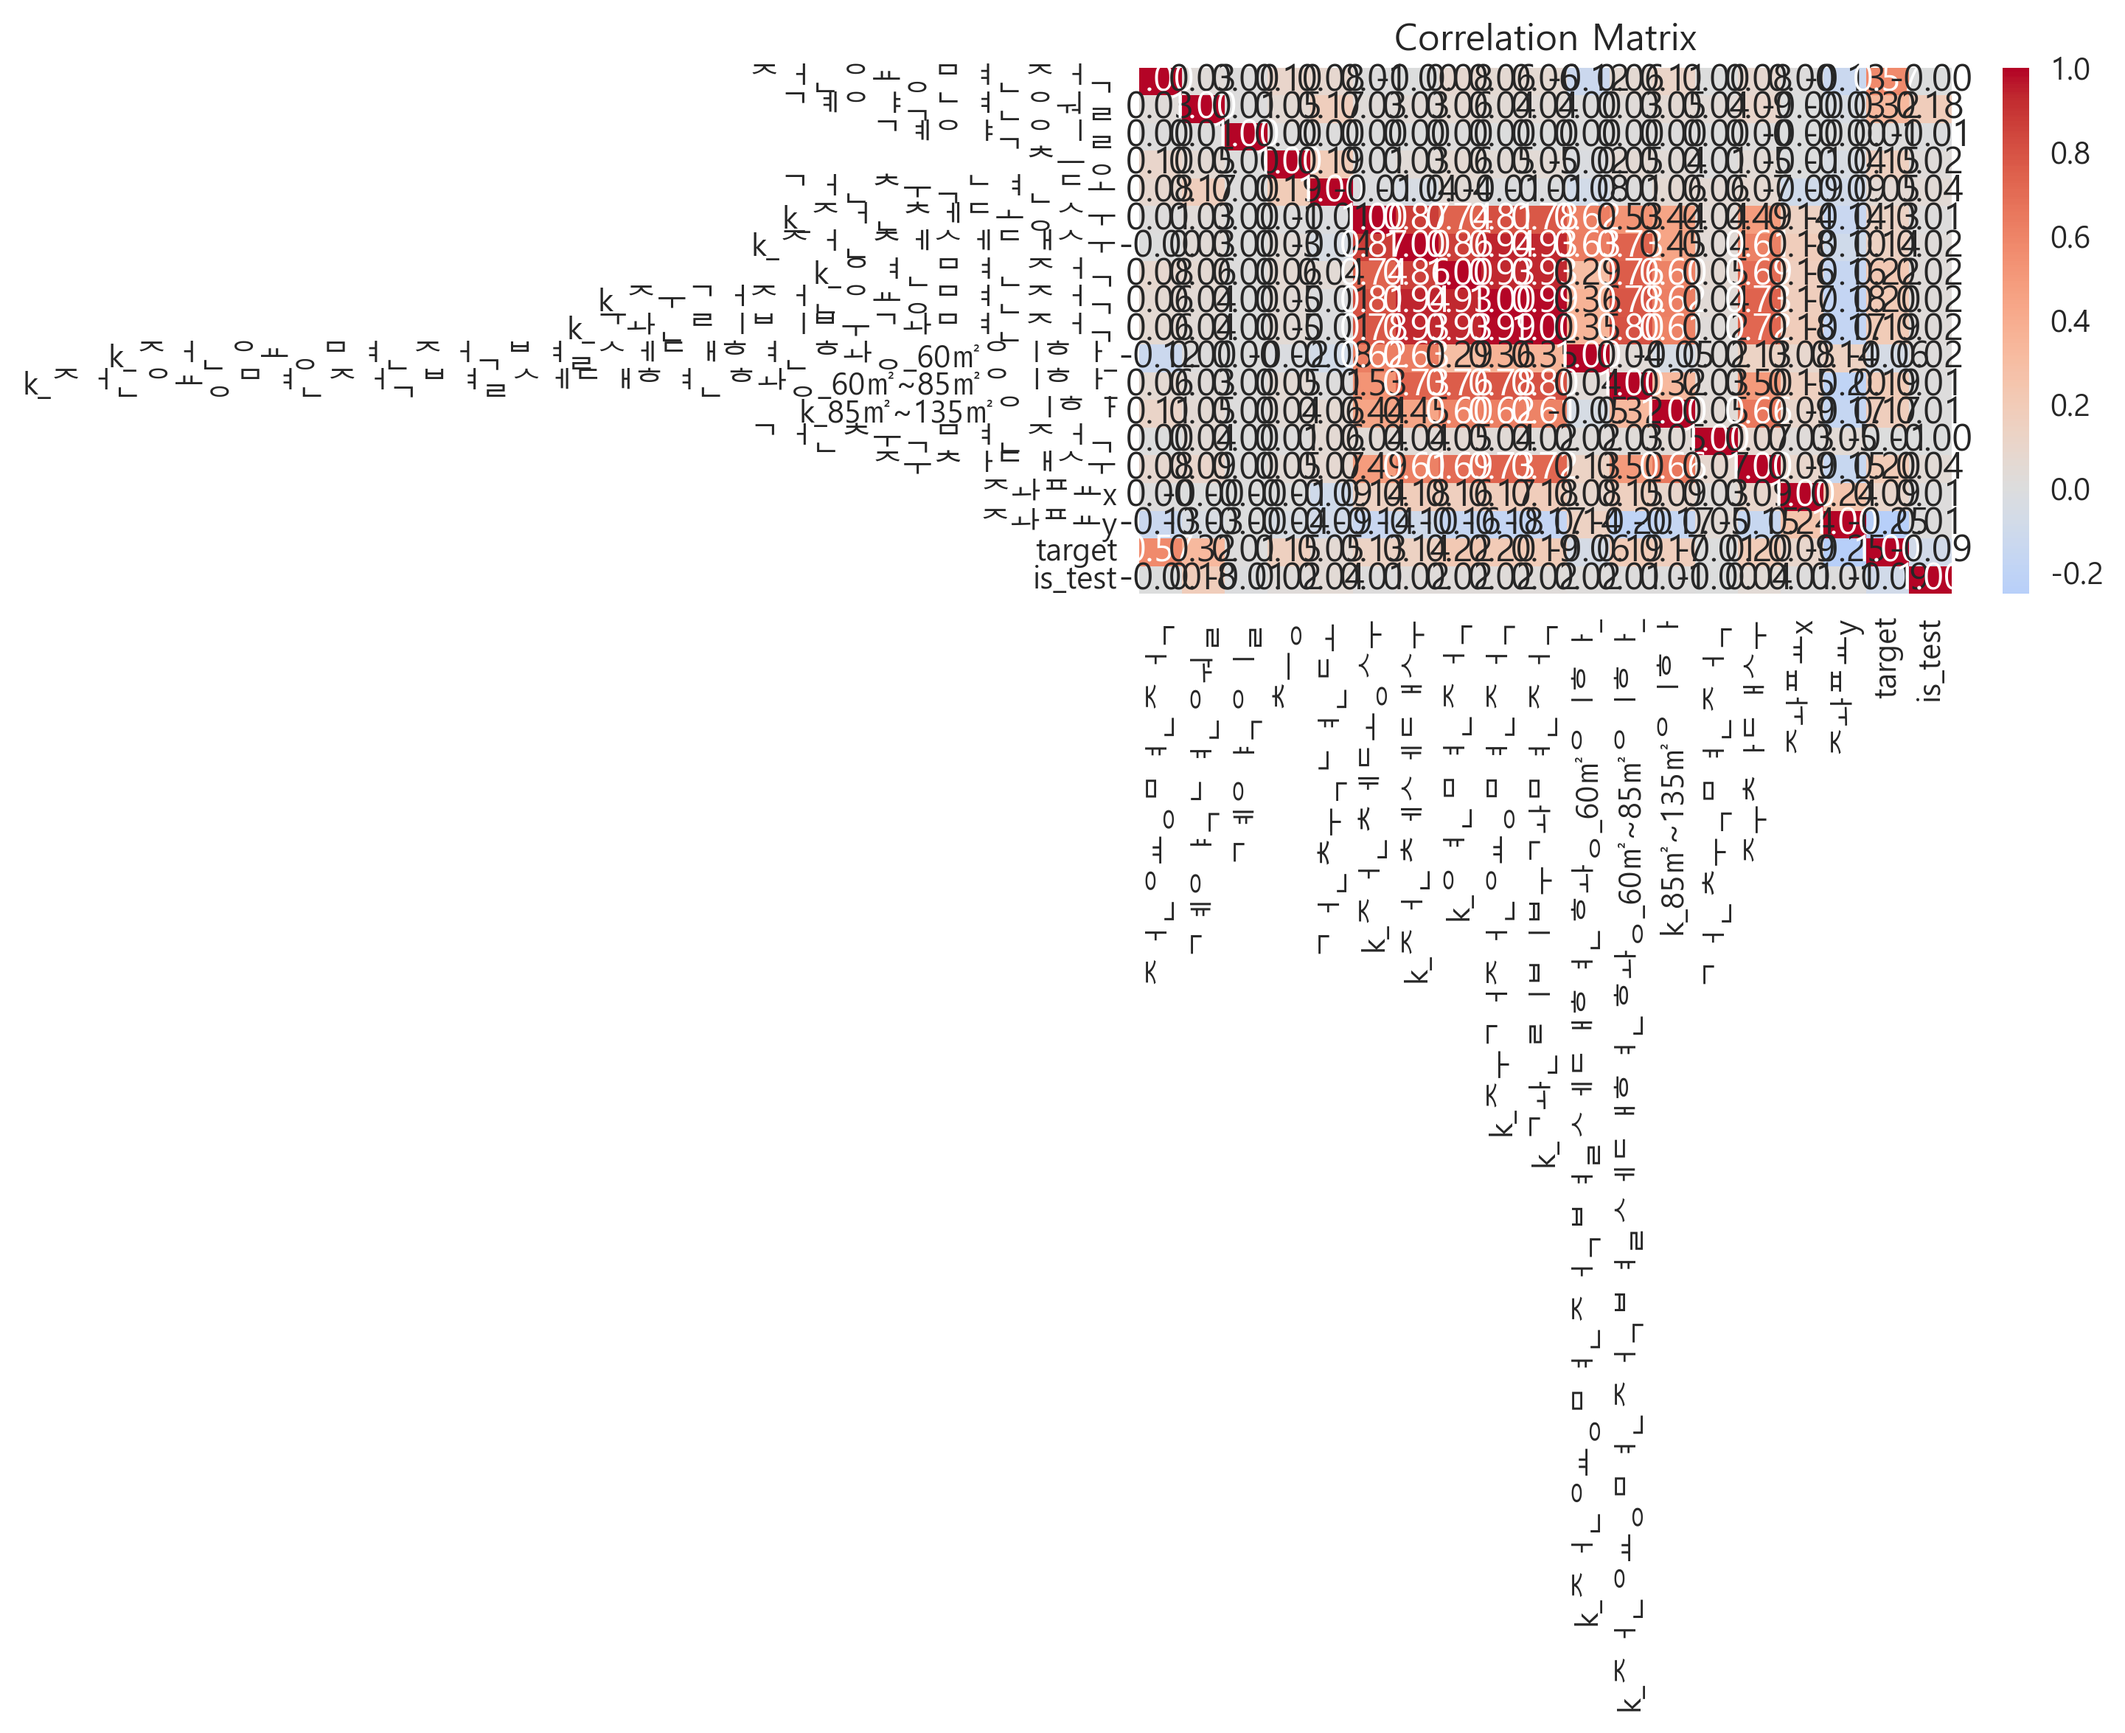
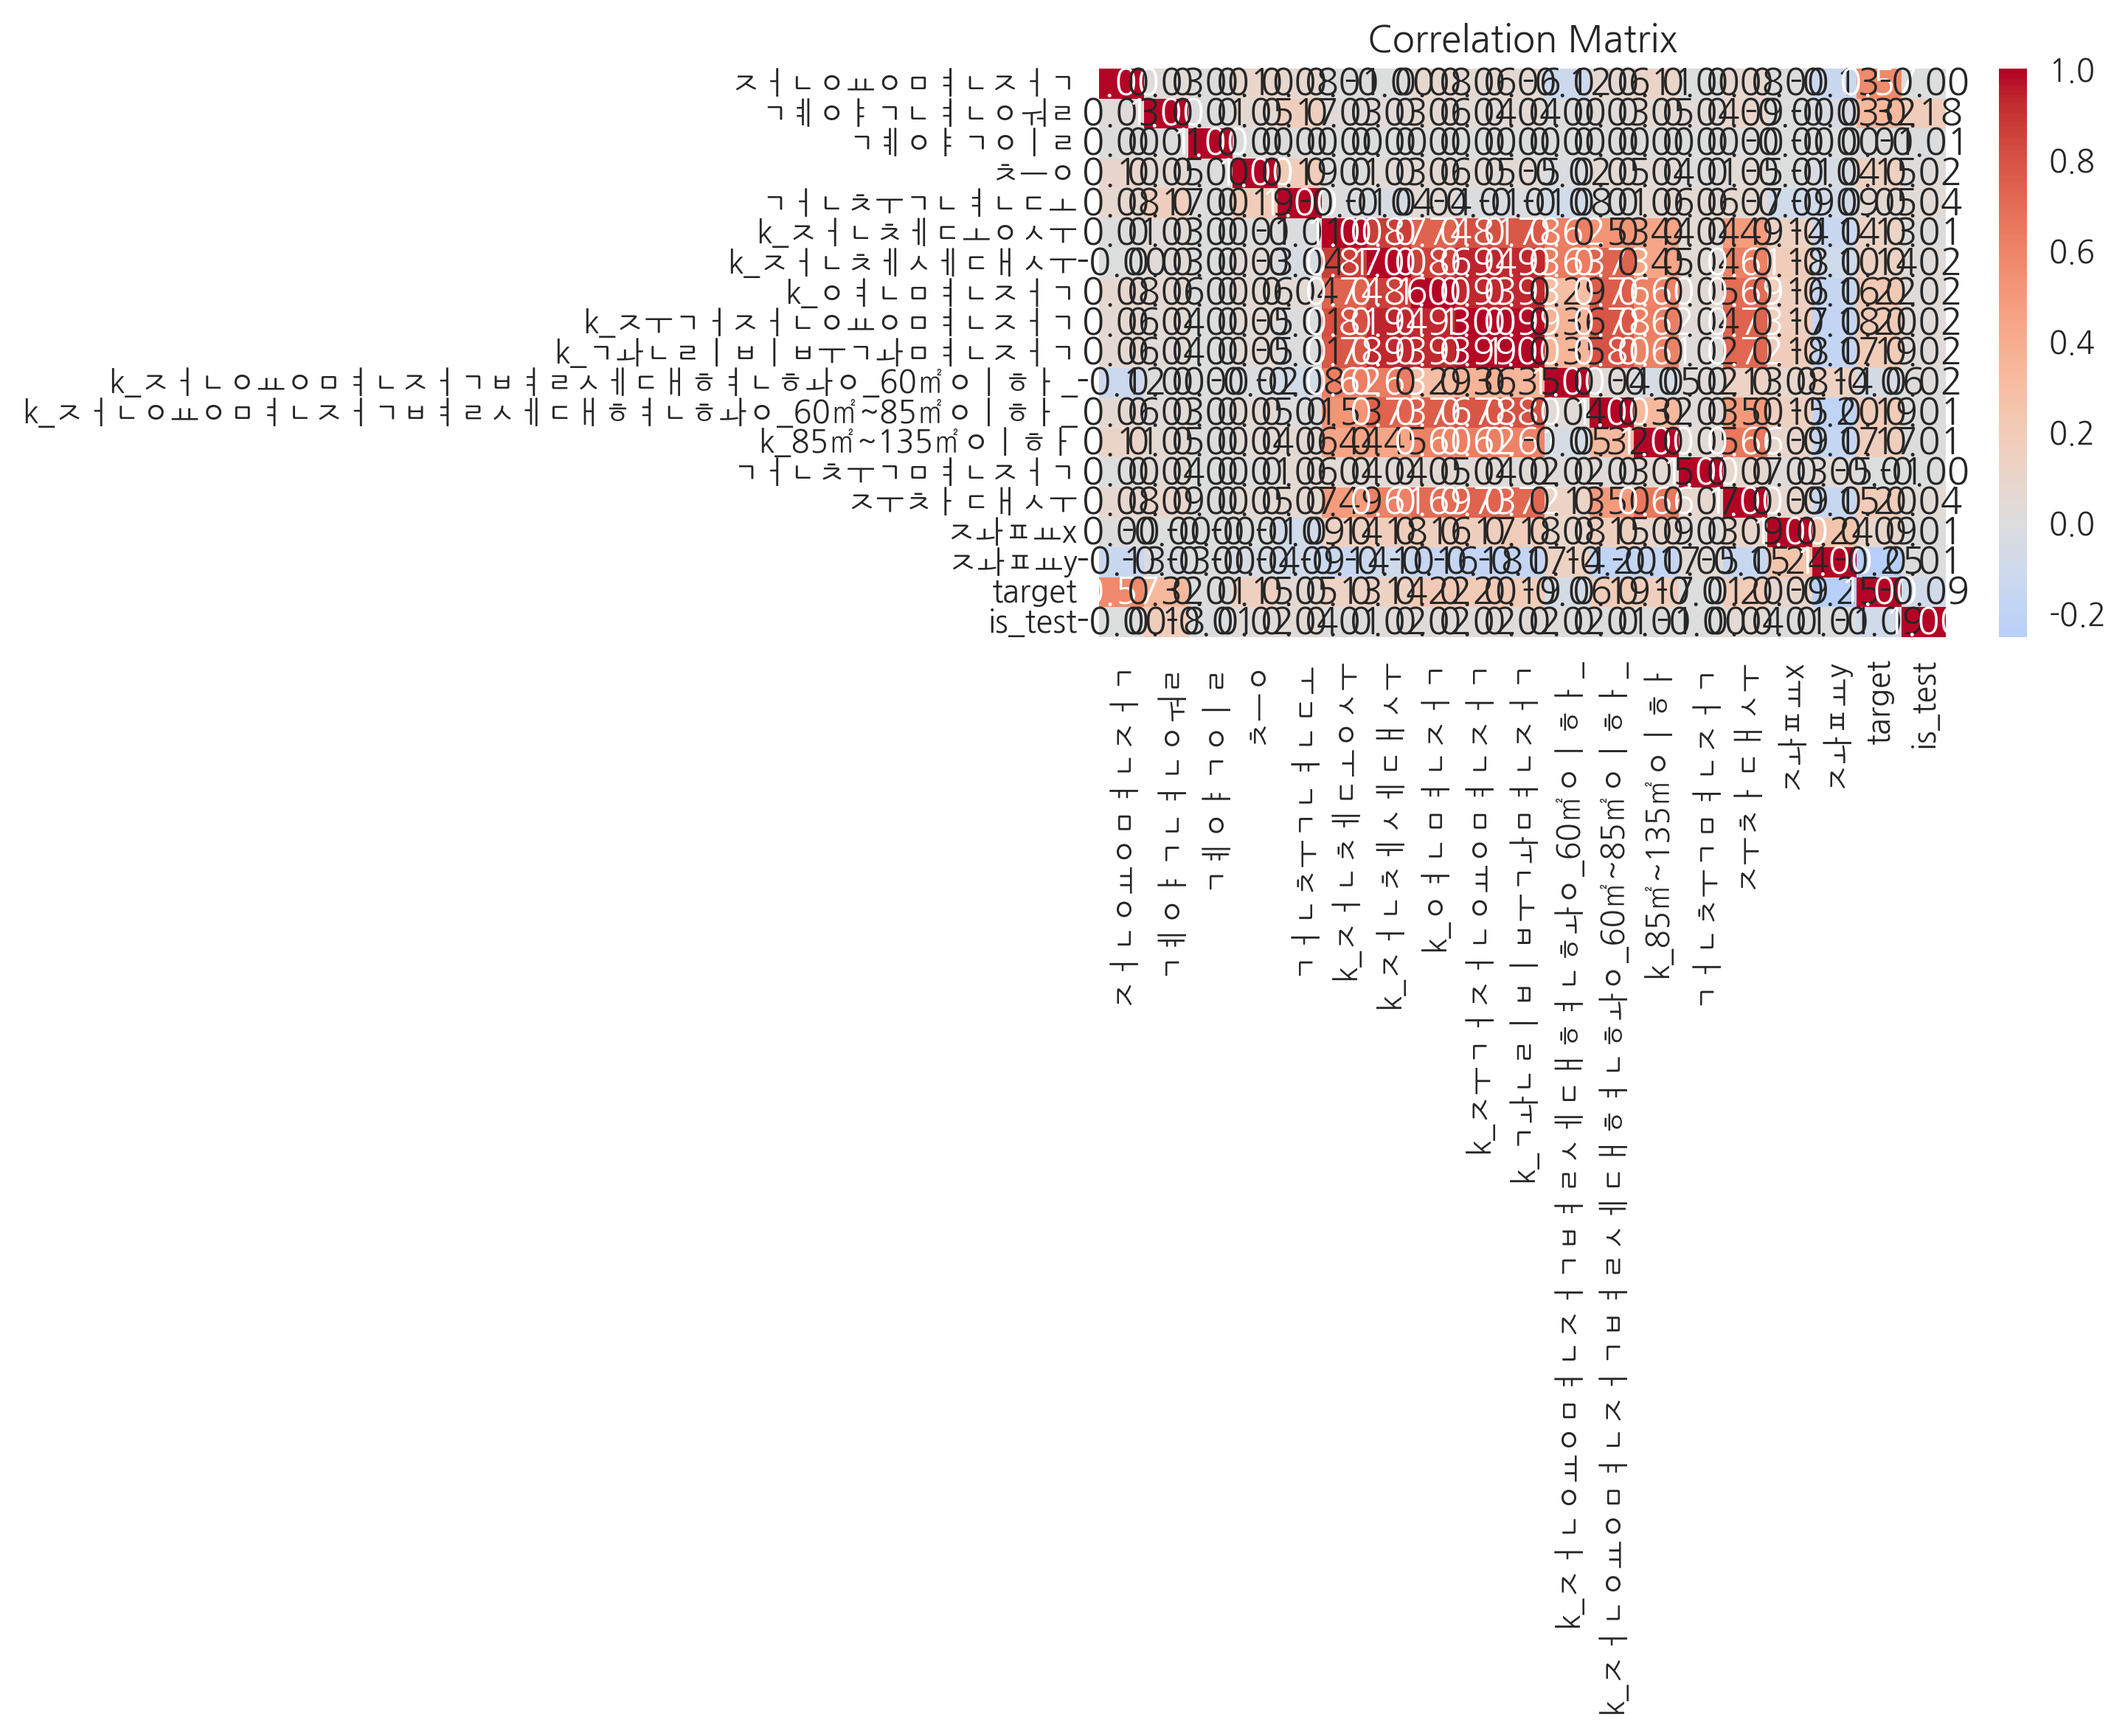
test: Main

Changed region(s): [[0.0312, 0.0, 0.9993, 0.7766], [0.7183, 0.8077, 0.7807, 0.9009], [0.7495, 0.9319, 0.7807, 0.994]]

diff --git a/main_test.py b/main_test.py
@@ -134,45 +134,53 @@ def main():
     label_encoders = feat_eng_data.get('label_encoders')
     continuous_columns_v2 = feat_eng_data.get('continuous_columns_v2')
     categorical_columns_v2 = feat_eng_data.get('categorical_columns_v2')
+    logger.info(f'For concat.Train data shape : {dt_train.shape}, Test data shape : {dt_test.shape}\n{dt_train.head(1)}\n{dt_test.head(1)}')
+    concat = pd.concat([dt_train, dt_test], axis=0).reset_index(drop=True)
+
+    dt_train['is_test'] = 0
+    dt_test['is_test'] = 1
+    logger.info('is_test column added to train and test data.\nConcat train and test data.')
+    concat = pd.concat([dt_train, dt_test])     # 하나의 데이터로 만들어줍니다.
+    concat['is_test'].value_counts()      # train과 test data가 하나로 합쳐진 것을 확인할 수 있습니다.
     ########################################################################################################################################
     ## Feature Add 1. 거리 분석
-    if not os.path.exists(path_feat_add):
-        logger.info('>>>>feat add 존재하지 않음. 생성 시작...')
-        feat_add = FeatureAdditional(config)
-        df_coor = {'x': '좌표X', 'y': '좌표Y'}
-        subway_coor = {'x': '위도', 'y': '경도'}
-        bus_coor = {'x': 'X좌표', 'y': 'Y좌표'}
-        subway_feature = pd.read_csv(config.get('subway_feature'))
-        bus_feature = pd.read_csv(config.get('bus_feature'))
+    # if not os.path.exists(path_feat_add):
+    #     logger.info('>>>>feat add 존재하지 않음. 생성 시작...')
+    #     feat_add = FeatureAdditional(config)
+    #     df_coor = {'x': '좌표X', 'y': '좌표Y'}
+    #     subway_coor = {'x': '위도', 'y': '경도'}
+    #     bus_coor = {'x': 'X좌표', 'y': 'Y좌표'}
+    #     subway_feature = pd.read_csv(config.get('subway_feature'))
+    #     bus_feature = pd.read_csv(config.get('bus_feature'))
 
-        logger.info(f'For concat.Train data shape : {dt_train.shape}, Test data shape : {dt_test.shape}\n{dt_train.head(1)}\n{dt_test.head(1)}')
-        concat = pd.concat([dt_train, dt_test], axis=0).reset_index(drop=True)
+    #     logger.info(f'For concat.Train data shape : {dt_train.shape}, Test data shape : {dt_test.shape}\n{dt_train.head(1)}\n{dt_test.head(1)}')
+    #     concat = pd.concat([dt_train, dt_test], axis=0).reset_index(drop=True)
 
-        dt_train['is_test'] = 0
-        dt_test['is_test'] = 1
-        logger.info('is_test column added to train and test data.\nConcat train and test data.')
-        concat = pd.concat([dt_train, dt_test])     # 하나의 데이터로 만들어줍니다.
-        concat['is_test'].value_counts()      # train과 test data가 하나로 합쳐진 것을 확인할 수 있습니다.
-            # 1. Numba + 병렬처리 조합 (메모리 효율적)
-        # df, cols = feat_add.distance_analysis_optimized(
-        #     df, subway_feature, df_coor, subway_coor, radius=500, target='subway'
-        # )
+    #     dt_train['is_test'] = 0
+    #     dt_test['is_test'] = 1
+    #     logger.info('is_test column added to train and test data.\nConcat train and test data.')
+    #     concat = pd.concat([dt_train, dt_test])     # 하나의 데이터로 만들어줍니다.
+    #     concat['is_test'].value_counts()      # train과 test data가 하나로 합쳐진 것을 확인할 수 있습니다.
+    #         # 1. Numba + 병렬처리 조합 (메모리 효율적)
+    #     # df, cols = feat_add.distance_analysis_optimized(
+    #     #     df, subway_feature, df_coor, subway_coor, radius=500, target='subway'
+    #     # )
 
-        # 2. BallTree 방식 (더 빠르지만 메모리 많이 사용)
-        concat, subway_cols = feat_add.distance_analysis_balltree(
-            concat, subway_feature, df_coor, subway_coor, radius=500, target='subway'
-        )
-        #concat, subway_cols = feat_add.distance_analysis_parallel(concat, subway_feature, df_coor, subway_coor, 500, 'subway')
-        concat, bus_cols = feat_add.distance_analysis_balltree(concat, bus_feature, df_coor, bus_coor, 500, 'bus')
-        logger.info(f'For concat.Train data shape : {dt_train.shape}, Test data shape : {dt_test.shape}\n{dt_train.head(1)}\n{dt_test.head(1)}')
-        #df.drop(df.columns[0], axis=1, inplace=True)
-        concat.to_csv(path_feat_add)
+    #     # 2. BallTree 방식 (더 빠르지만 메모리 많이 사용)
+    #     concat, subway_cols = feat_add.distance_analysis_balltree(
+    #         concat, subway_feature, df_coor, subway_coor, radius=500, target='subway'
+    #     )
+    #     #concat, subway_cols = feat_add.distance_analysis_parallel(concat, subway_feature, df_coor, subway_coor, 500, 'subway')
+    #     concat, bus_cols = feat_add.distance_analysis_balltree(concat, bus_feature, df_coor, bus_coor, 500, 'bus')
+    #     logger.info(f'For concat.Train data shape : {dt_train.shape}, Test data shape : {dt_test.shape}\n{dt_train.head(1)}\n{dt_test.head(1)}')
+    #     #df.drop(df.columns[0], axis=1, inplace=True)
+    #     concat.to_csv(path_feat_add)
 
-    else:
-        logger.info('>>>>feat add 존재. Loading...')
-        concat = pd.read_csv(path_feat_add)
+    # else:
+    #     logger.info('>>>>feat add 존재. Loading...')
+    #     concat = pd.read_csv(path_feat_add)
     ########################################################################################################################################
-    cols = ['아파트명','전용면적','층','건축년도','k-건설사(시공사)','주차대수','강남여부','신축여부','k-주거전용면적' ] + subway_cols + bus_cols
+    cols = ['아파트명','전용면적','층','건축년도','k-건설사(시공사)','주차대수','강남여부','신축여부','k-주거전용면적' ] #+ subway_cols + bus_cols
     ## Feature Add 2. Clustering
 
     path_feat_add_cluster = os.path.join(prep_path, 'df_feat_add_cluster.csv')
